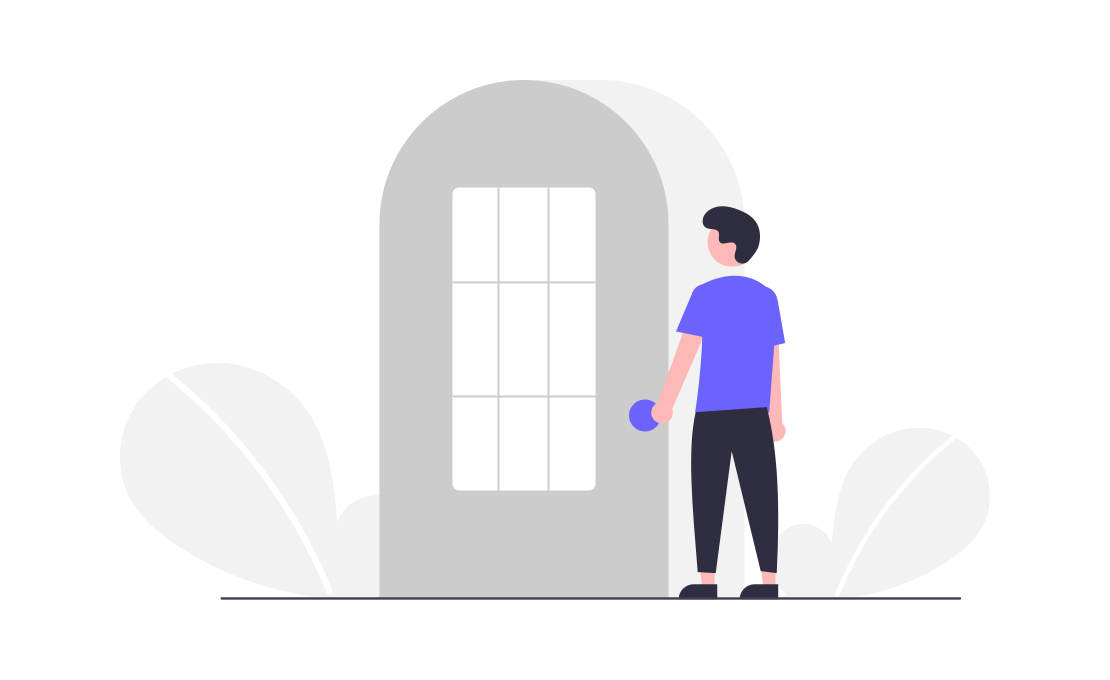
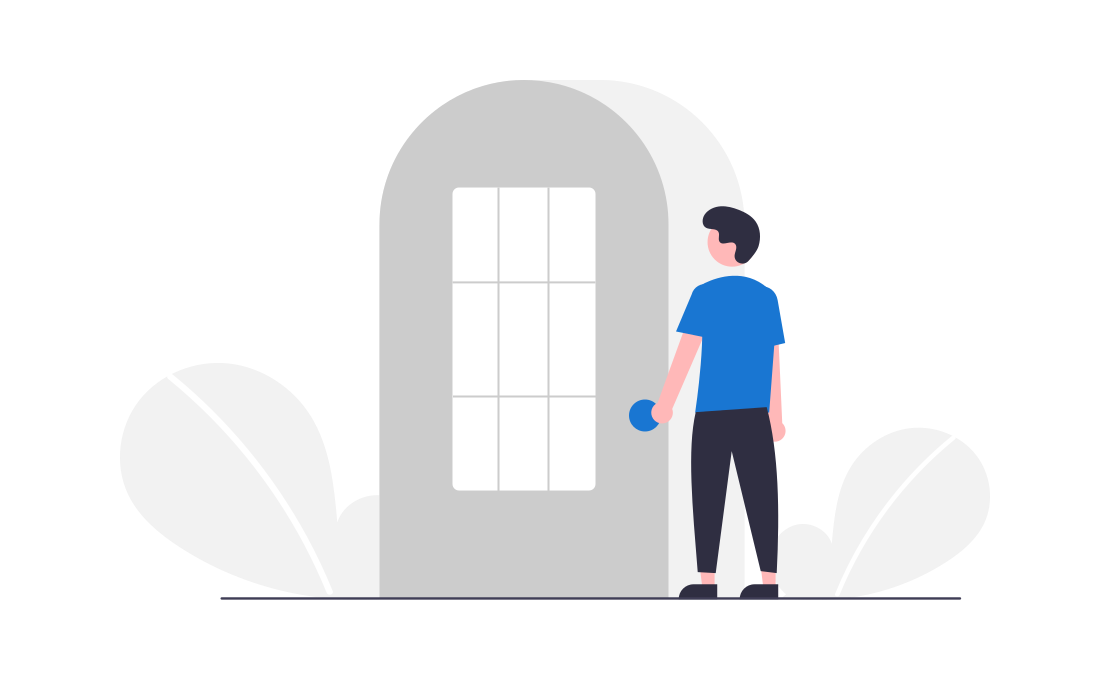
loginV1

Changed region(s): [[0.5514, 0.4015, 0.7045, 0.6485]]

diff --git a/frontend/src/components/HelloWorld.vue b/frontend/src/components/HelloWorld.vue
@@ -3,149 +3,116 @@
     <v-row class="text-center">
       <v-col cols="12">
         <v-img
-          :src="require('../assets/logo.svg')"
+          :src="require('../assets/signUp2.png')"
           class="my-3"
           contain
-          height="200"
+          height="250"
         />
       </v-col>
 
       <v-col class="mb-4">
-        <h1 class="display-2 font-weight-bold mb-3">
-          Welcome to Vuetify
-        </h1>
+        <h1 class="display-2 font-weight-bold mb-3">Welcome</h1>
 
-        <p class="subheading font-weight-regular">
-          For help and collaboration with other Vuetify developers,
-          <br>please join our online
-          <a
-            href="https://community.vuetifyjs.com"
-            target="_blank"
-          >Discord Community</a>
-        </p>
-      </v-col>
+        <v-form ref="form" v-model="valid" lazy-validation>
+          <v-text-field v-model="email" label="E-mail" required></v-text-field>
 
-      <v-col
-        class="mb-5"
-        cols="12"
-      >
-        <h2 class="headline font-weight-bold mb-3">
-          What's next?
-        </h2>
+          <v-text-field
+            v-model="password"
+            :counter="10"
+            label="Password"
+            required
+          ></v-text-field>
 
-        <v-row justify="center">
-          <a
-            v-for="(next, i) in whatsNext"
-            :key="i"
-            :href="next.href"
-            class="subheading mx-3"
-            target="_blank"
-          >
-            {{ next.text }}
-          </a>
-        </v-row>
-      </v-col>
+          <v-col class="mb-4">
+            <v-btn color="primary" elevation="11">LOG IN</v-btn>
+          </v-col>
+          <v-col class="mb-4">
+            <div class="text-center">
+              <v-dialog v-model="dialog" width="500">
+                <template v-slot:activator="{ on, attrs }">
+                  <v-btn
+                    block
+                    color="primary"
+                    elevation="11"
+                    v-bind="attrs"
+                    v-on="on"
+                    >Create New Account</v-btn
+                  >
+                </template>
 
-      <v-col
-        class="mb-5"
-        cols="12"
-      >
-        <h2 class="headline font-weight-bold mb-3">
-          Important Links
-        </h2>
+                <v-card>
+                  <v-card-title class="headline grey lighten-2">
+                   Sign Up
+                  </v-card-title>
 
-        <v-row justify="center">
-          <a
-            v-for="(link, i) in importantLinks"
-            :key="i"
-            :href="link.href"
-            class="subheading mx-3"
-            target="_blank"
-          >
-            {{ link.text }}
-          </a>
-        </v-row>
-      </v-col>
+                  <v-card-text>
+                    <v-form ref="form" v-model="valid" lazy-validation>
+                      <v-text-field
+                        v-model="name"
+                        :counter="10"
+                        :rules="nameRules"
+                        label="Name"
+                        required
+                      ></v-text-field>
 
-      <v-col
-        class="mb-5"
-        cols="12"
-      >
-        <h2 class="headline font-weight-bold mb-3">
-          Ecosystem
-        </h2>
+                      <v-text-field
+                        v-model="email"
+                        :rules="emailRules"
+                        label="E-mail"
+                        required
+                      ></v-text-field>
 
-        <v-row justify="center">
-          <a
-            v-for="(eco, i) in ecosystem"
-            :key="i"
-            :href="eco.href"
-            class="subheading mx-3"
-            target="_blank"
-          >
-            {{ eco.text }}
-          </a>
-        </v-row>
+
+
+                       <v-text-field
+                        v-model="password"
+                        :type="'password'"
+                        :rules="passwordRules"
+                        label="Password"
+                        required
+                      ></v-text-field>
+
+                    </v-form>
+                  </v-card-text>
+
+                  <v-divider></v-divider>
+
+                  <v-card-actions>
+                    <v-spacer></v-spacer>
+
+                    <v-btn color="primary" text @click="dialog = false">
+                      Continue
+                    </v-btn>
+                  </v-card-actions>
+                </v-card>
+              </v-dialog>
+            </div>
+          </v-col>
+        </v-form>
       </v-col>
     </v-row>
   </v-container>
 </template>
 
-<script>
-  export default {
-    name: 'HelloWorld',
 
-    data: () => ({
-      ecosystem: [
-        {
-          text: 'vuetify-loader',
-          href: 'https://github.com/vuetifyjs/vuetify-loader',
-        },
-        {
-          text: 'github',
-          href: 'https://github.com/vuetifyjs/vuetify',
-        },
-        {
-          text: 'awesome-vuetify',
-          href: 'https://github.com/vuetifyjs/awesome-vuetify',
-        },
-      ],
-      importantLinks: [
-        {
-          text: 'Documentation',
-          href: 'https://vuetifyjs.com',
-        },
-        {
-          text: 'Chat',
-          href: 'https://community.vuetifyjs.com',
-        },
-        {
-          text: 'Made with Vuetify',
-          href: 'https://madewithvuejs.com/vuetify',
-        },
-        {
-          text: 'Twitter',
-          href: 'https://twitter.com/vuetifyjs',
-        },
-        {
-          text: 'Articles',
-          href: 'https://medium.com/vuetify',
-        },
-      ],
-      whatsNext: [
-        {
-          text: 'Explore components',
-          href: 'https://vuetifyjs.com/components/api-explorer',
-        },
-        {
-          text: 'Select a layout',
-          href: 'https://vuetifyjs.com/getting-started/pre-made-layouts',
-        },
-        {
-          text: 'Frequently Asked Questions',
-          href: 'https://vuetifyjs.com/getting-started/frequently-asked-questions',
-        },
-      ],
-    }),
-  }
+<script>
+export default {
+  data() {
+    return {
+      dialog: false,
+    };
+  },
+};
+</script>
+
+
+
+
+
+<script>
+export default {
+  name: "HelloWorld",
+
+  data: () => ({}),
+};
 </script>

diff --git a/frontend/src/App.vue b/frontend/src/App.vue
@@ -5,36 +5,11 @@
       color="primary"
       dark
     >
-      <div class="d-flex align-center">
-        <v-img
-          alt="Vuetify Logo"
-          class="shrink mr-2"
-          contain
-          src="https://cdn.vuetifyjs.com/images/logos/vuetify-logo-dark.png"
-          transition="scale-transition"
-          width="40"
-        />
-
-        <v-img
-          alt="Vuetify Name"
-          class="shrink mt-1 hidden-sm-and-down"
-          contain
-          min-width="100"
-          src="https://cdn.vuetifyjs.com/images/logos/vuetify-name-dark.png"
-          width="100"
-        />
-      </div>
+     
 
       <v-spacer></v-spacer>
 
-      <v-btn
-        href="https://github.com/vuetifyjs/vuetify/releases/latest"
-        target="_blank"
-        text
-      >
-        <span class="mr-2">Latest Release</span>
-        <v-icon>mdi-open-in-new</v-icon>
-      </v-btn>
+     
     </v-app-bar>
 
     <v-main>

diff --git a/README.md b/README.md
@@ -31,3 +31,5 @@ Generic landing pagegit ad
 if npm run serve doesnt work: 
 
 .\node_modules\.bin\vue-cli-service serve
+
+//#1976D2
